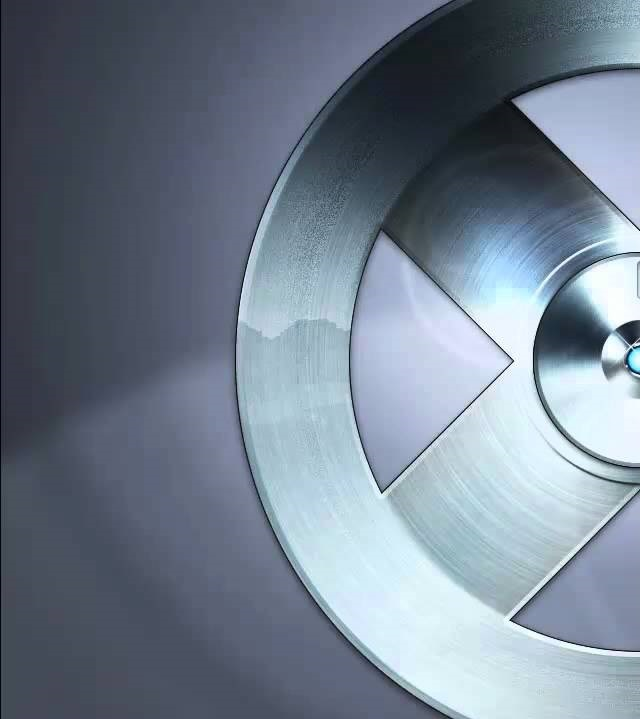
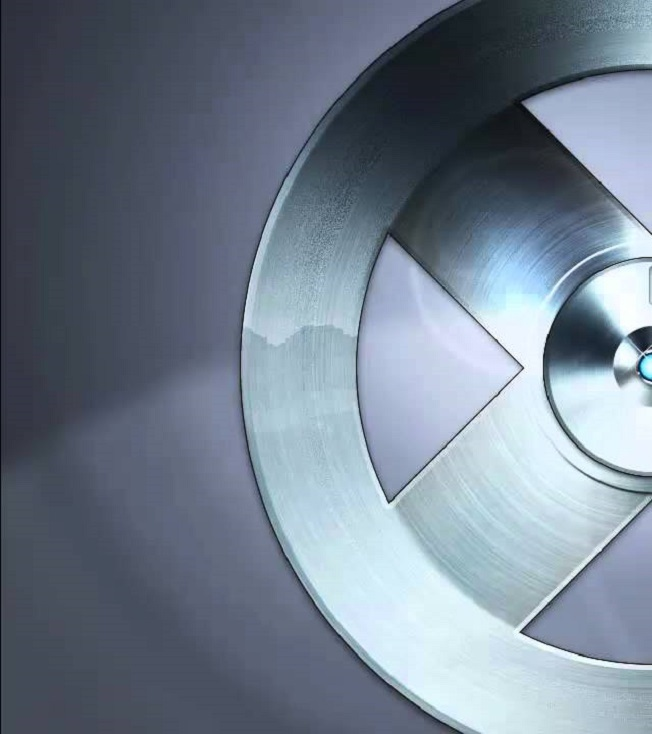
HTML CSS issues tweaked

diff --git a/hangmanGame.html b/hangmanGame.html
@@ -3,36 +3,33 @@
 <head>
 	<title>X-Hangman</title>
 	<script src="https://code.jquery.com/jquery.js"></script>
-	<script src="https://maxcdn.bootstrapcdn.com/bootstrap/3.3.7/js/bootstrap.min.js" integrity="sha384-Tc5IQib027qvyjSMfHjOMaLkfuWVxZxUPnCJA7l2mCWNIpG9mGCD8wGNIcPD7Txa" crossorigin="anonymous"></script>
 	<link href="https://fonts.googleapis.com/css?family=Playfair+Display+SC" rel="stylesheet">
 	<link href="https://fonts.googleapis.com/css?family=Orbitron" rel="stylesheet">
-	<link rel="stylesheet" href="https://maxcdn.bootstrapcdn.com/bootstrap/3.3.7/css/bootstrap.min.css">
 	<link rel="stylesheet" type="text/css" href="assets/css/style.css">
 	<script type="text/javascript" src="assets/javascript/game.js"></script>
 </head>
-<body class="cover">
-	<div class="container-fluid slide_in">
+<body>
+	<div class="container cover slide_in">
 		
 		<!-- Sliding cerebro door -->
 		<!-- Left -->
 		<div class="left_gate">
-			<h1 class="doorBanner hang text-right">Hang</h1>
-			<h1 class="doorBanner edition text-right">X-Men</h1>
+			<h1 class="doorBanner hang">Hang</h1>
+			<h1 class="doorBanner edition">X-Men</h1>
 		</div>
 		<!-- Right -->
   		<div class="right_gate">
-  			<h1 class="doorBanner man text-left">man</h1>
-  			<h1 class="doorBanner edition text-left">Edition</h1>
+  			<h1 class="doorBanner man">man</h1>
+  			<h1 class="doorBanner edition">Edition</h1>
   		</div>
 		
 		<!-- Main heading -->
-		<div class="row">
-			<div class="col-md-12 text-center"><h1 id="heading">Hangman - X-Men Edition</h1></div>
-		</div>
+		
+		<div class="mainHeading"><h1 id="heading">Hangman - X-Men Edition</h1></div>
+		
 		
 		<!-- Game rules | Mode selector buttons | Reset button -->
-		<div class="row">
-			<div class="col-md-4">
+		
 				<div class="rules">
 					Rules:
 					<ol class="ruleSet">
@@ -43,55 +40,54 @@
 						<li>To reset game, click 'Reset'</li>
 					</ol>
 				</div>
-			</div>
-			<div class="col-md-4">
-				<div class="row gameMode text-center">
-					<button class="btn btn-info btn-large easy">Easy Mode</button>
-					<button class="btn btn-info btn-large hard">Hard Mode</button>
+			
+				<div class="gameMode">
+					<button class="btn easy">Easy Mode</button>
+					<button class="btn hard">Hard Mode</button>
 				</div>
+			
+			<div class="resetButton">
+				<button class="btn reset">Reset</button>
 			</div>
-			<div class="col-md-3 text-center">
-				<button class="btn btn-info btn-large reset">Reset</button>
-			</div>
-		</div>
+		
 		
 		<!-- Game and stats -->
-		<div class="row text-center">
-			<div class="col-md-6 col-md-offset-3">
+		
+			
 				<div class="gameStats">
 					Word: 	<p id = "word"></p>
 					Guesses remaining: 	<p id = "guessesLeft"></p>
 					Letters used: 	<p id = "guessedLetters"></p>
 				</div>
-			</div>
-			<div class="col-md-3 text-center">
+			
+			
 				<div class="score">
 					<span>Wins		: <span id = "wins"></span></span>
 					<br>
 					<span>Losses	: <span id = "losses"></span></span>
 				</div>
-			</div>
-		</div>
+			
+		
 		
 		<!-- Provision for hints -->
-		<div class="row hintdefault text-center">
-			<div class="col-md-12">
+		
+			
 				<div class="control">
-					<button class="btn btn-info btn-large hint" data-toggle="collapse" data-target="#hint">Hint</button>
+					<button class="btn hint" data-toggle="collapse" data-target="#hint">Hint</button>
 				</div>
 				<div id="hint" class="collapse img-rounded">
 					<p></p>
 				</div>
-			</div>
-		</div>
+			
+		
 		
 		<!-- Info about game stat -->
-		<div class="row">
+		
 			<div id="info" class="col-md-12 img-rounded text-center"></div>
-		</div>
+		
 
 		<!-- Sliding notification for invalid input -->
-		<div class="message img-rounded text-center">
+		<div class="message">
 			<p id="alert"></p>
 		</div>
 

diff --git a/assets/css/style.css b/assets/css/style.css
@@ -5,91 +5,12 @@
 body {
 	background-image: url("../images/xMenHq.jpg");
 	background-repeat: no-repeat;
-	background-size: 1920px 980px;
+	background-size: 100% 100%;
 	color: white;
-	font-size: 30px;
+	font-size: 20px;
 	font-family: 'Orbitron', sans-serif;
 }
 
-h1 {
-	font-size: 50px;
-	font-weight: bolder;
-	/*font-family: 'Playfair Display SC', serif;*/
-}
-
-.message {
-	background-color: #379ee8;
-	opacity: 0.9;
-	display: none;
-	border: 5px solid white;
-    position: absolute;
-    top: 0;
-    left: 30%;
-    width: 800px;
-    height: 250px;
-}
-
-#alert {
-	top: 25%;
-    position: absolute;
-    padding: 40px;
-    margin-left: 25px;
-}
-
-.gameStats {
-	padding: 30px;
-	padding-top: 0px;
-	line-height: 40px;
-}
-
-.gameMode {
-	padding: 30px;
-}
-
-.btn {
-	display: inline;
-	font-size: 30px;
-	padding: 10px;
-	margin: 20px;
-	font-weight: 400;
-}
-
-.rules {
-	margin-left: 40px;
-}
-
-.ruleSet {
-	margin-left: 30px;
-}
-
-#hint {
-	padding-top: 15px;
-	background-color: #379ee8;
-	opacity: 0.8; 
-	width: 700px;
-	height: 80px;
-	margin-left: 32%;
-	margin-bottom: 20px;
-}
-
-#info {
-	padding-top: 15px;
-	background-color: #379ee8;
-	opacity: 0.8;
-	width: 700px; 
-	margin-left: 32%;
-	min-height: 80px;
-}
-
-
-#word {
-	white-space: pre;
-}
-
-#heading {
-	padding: 30px;
-	margin-left: 40px;
-}
 
 .doorBanner {
 	padding: 50px;
@@ -111,14 +32,121 @@ h1 {
 	margin-top: 330px;
 }
 
+
+h1 {
+	font-size: 80px;
+	font-weight: 800;
+}
+
+#heading {
+	padding: 30px;
+	margin-left: 40px;
+}
+
+li {
+	padding: 10px;
+}
+
+.rules {
+	font-size: 25px;
+	margin-left: 45px;
+	line-height: 18px;
+}
+
+.ruleSet {
+	font-size: 20px;
+	margin-left: 20px;
+}
+
+
+.gameMode {
+	padding: 30px;
+}
+
+.btn {
+	display: inline;
+	font-size: 30px;
+	padding: 10px;
+	margin: 20px;
+	font-weight: 400;
+}
+
+.reset {
+	margin-top: 50px;
+}
+
+
+.gameStats {
+	padding: 30px;
+	padding-top: 0px;
+	line-height: 40px;
+	font-size: 30px;
+}
+
+#word {
+	white-space: pre;
+}
+
+
+.hintdefault {
+	min-height: 200px;
+}
+
+#hint {
+	padding-top: 15px;
+	background-color: #379ee8;
+	opacity: 0.8; 
+	width: 700px;
+	height: 80px;
+	margin-left: 32%;
+	margin-bottom: 20px;
+}
+
+
+#info {
+	padding-top: 15px;
+	background-color: #379ee8;
+	opacity: 0.8;
+	width: 700px; 
+	margin-left: 32%;
+	min-height: 80px;
+}
+
+
+.message {
+	background-color: #379ee8;
+	opacity: 0.9;
+	display: none;
+	border: 5px solid white;
+    position: absolute;
+    top: 0;
+    left: 30%;
+    width: 800px;
+    height: 250px;
+}
+
+#alert {
+	top: 25%;
+    position: absolute;
+    padding: 40px;
+    margin-left: 25px;
+}
+
+
 /****** CSS for sliding X door animation*******/
 .container-fluid {
+	width: 1920px;
+	height: 958px;
 	padding-left: 0px;
+	padding-right: 0px;
+	margin-left: 0px;
+	margin-right: 0px;
 }
+
 .cover {
   position: relative;
-  width: 1920px;
-  height: 980px;
+  width: 100%;
+  height: 100%;
   z-index: 1;
   
   -webkit-box-shadow: 0 2px 10px rgba(0,0,0,0.3);
